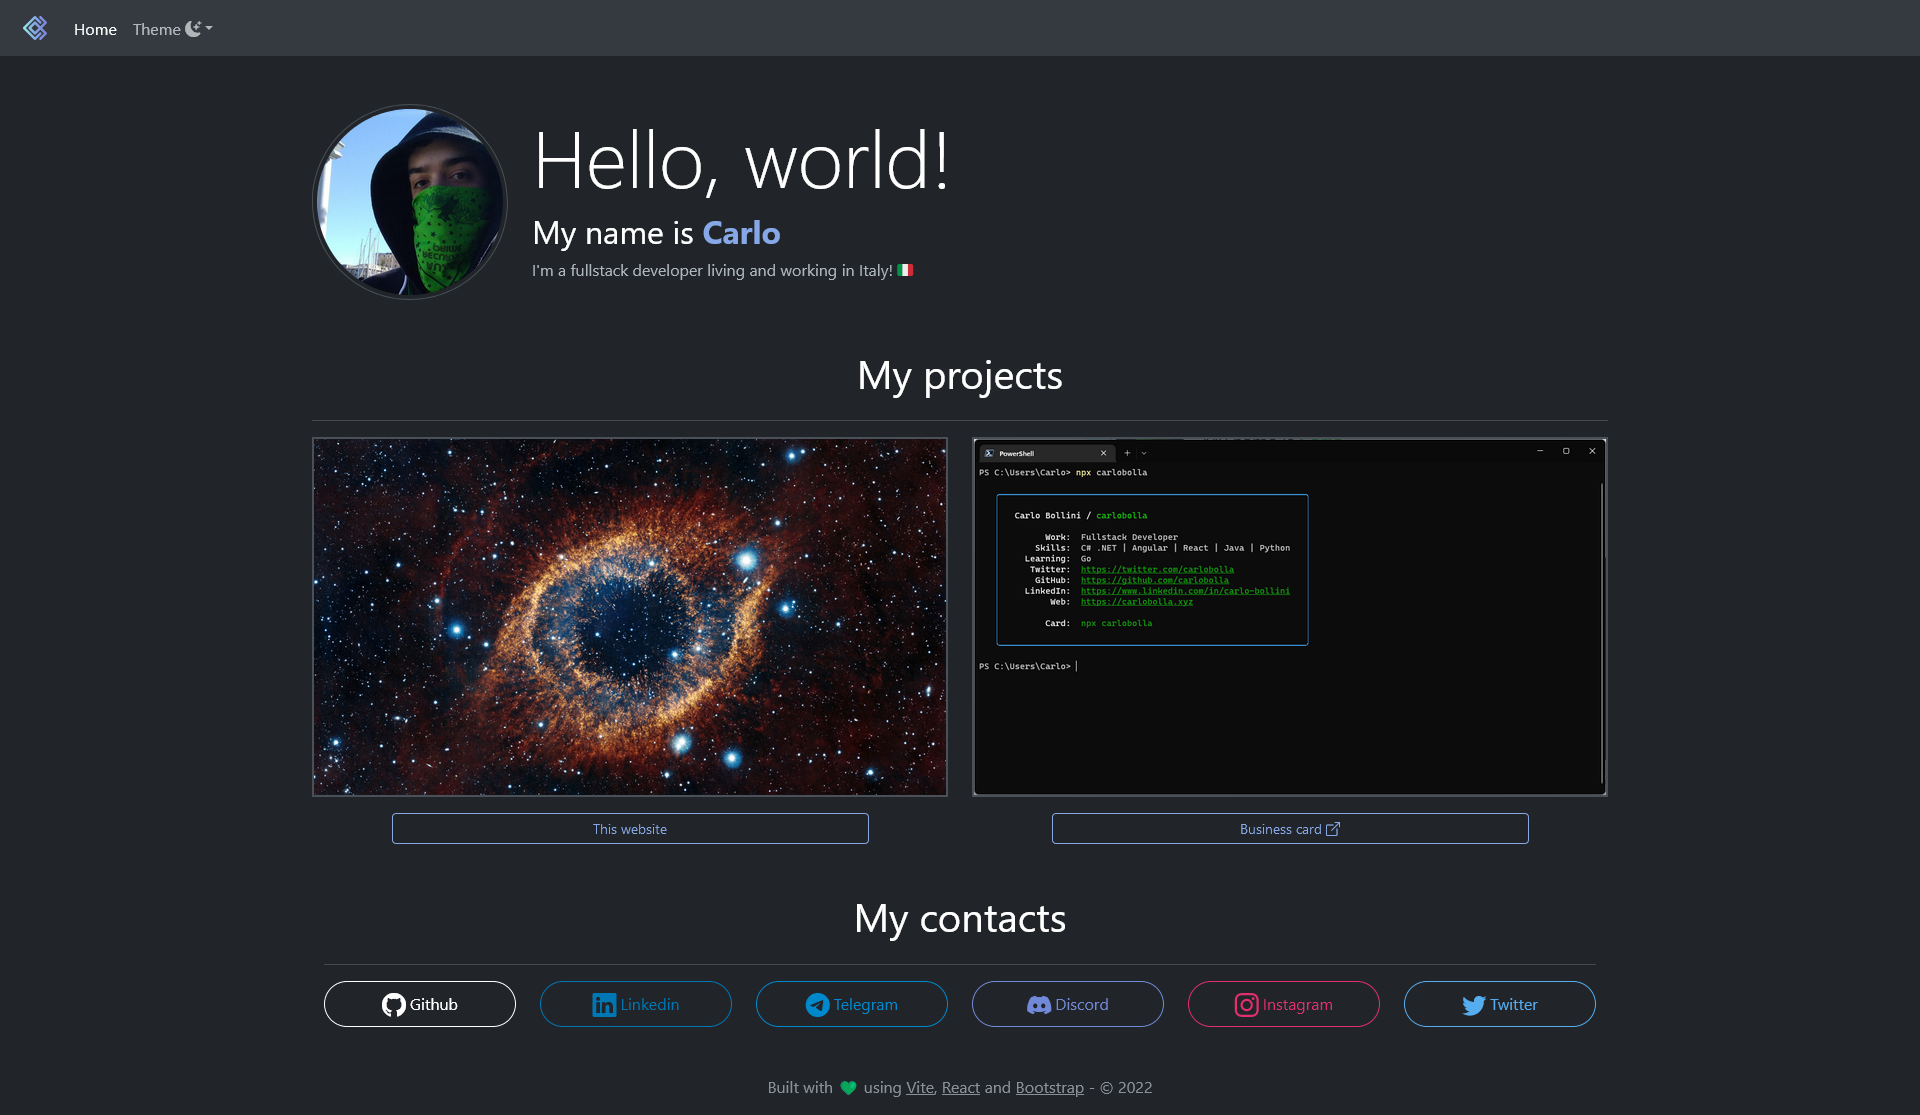
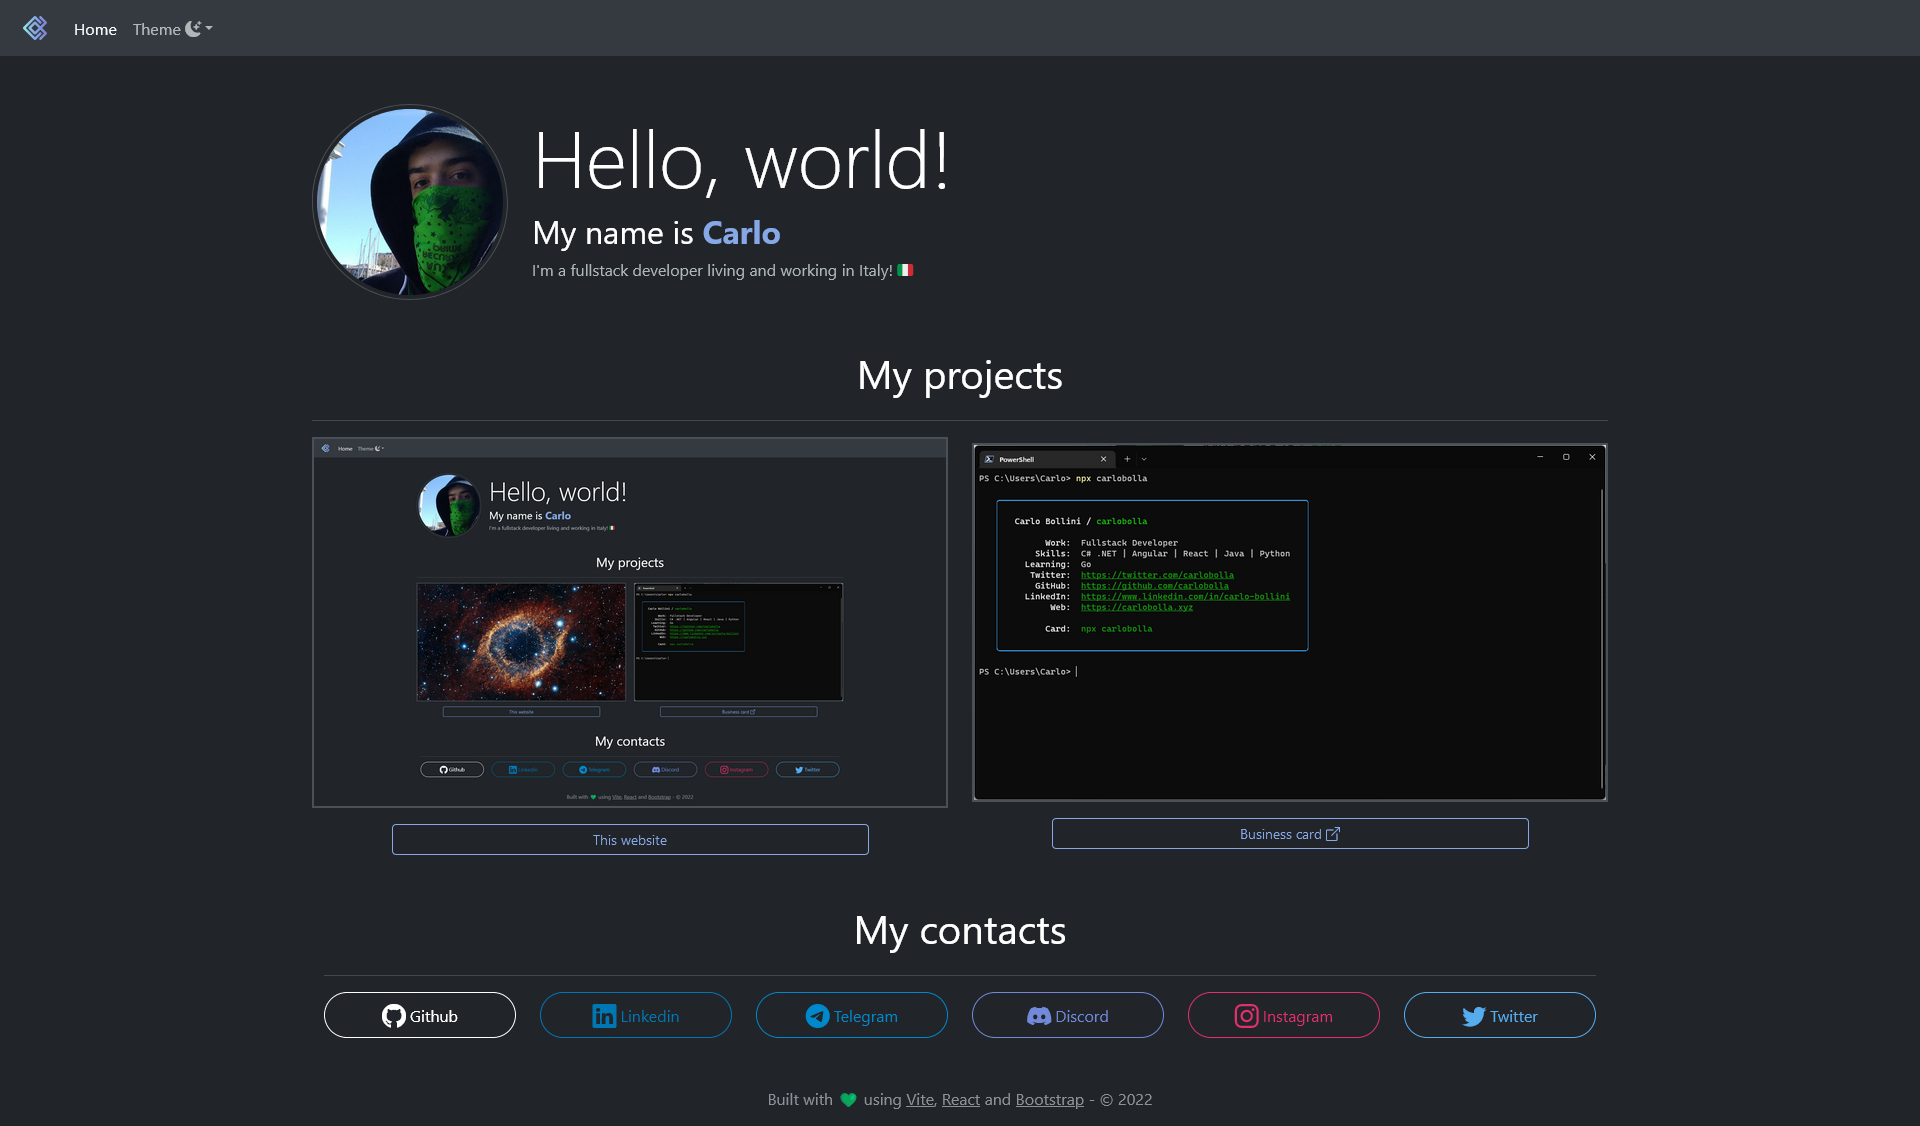
Updated site image, aligned to bottom images on the same row

diff --git a/src/components/project.tsx b/src/components/project.tsx
@@ -4,8 +4,8 @@ import { Project } from "../classes";
 
 export const ProjectCard = (props: Project) => {
   return(
-    <div className="col-6 justify-content-center d-flex flex-column">
-      <img data-bs-toggle="modal" data-bs-target={'#' + props.text.replace(" ", "")} className="border border-2 img-fluid" src={props.imgLink} alt="Project" />
+    <div className="col-6 justify-content-end d-flex flex-column">
+      <img style={{"width": "100%", "height": "auto"}} data-bs-toggle="modal" data-bs-target={'#' + props.text.replace(" ", "")} className="border border-2 img-fluid" src={props.imgLink} alt="Project" />
       <Button className='align-self-center mt-3 w-75' text={props.text} link={props.link}></Button>
       <div id={props.text.replace(" ", "")} className="modal fade mt-5" tabIndex={-1}>
         <div className="modal-dialog modal-xl">
